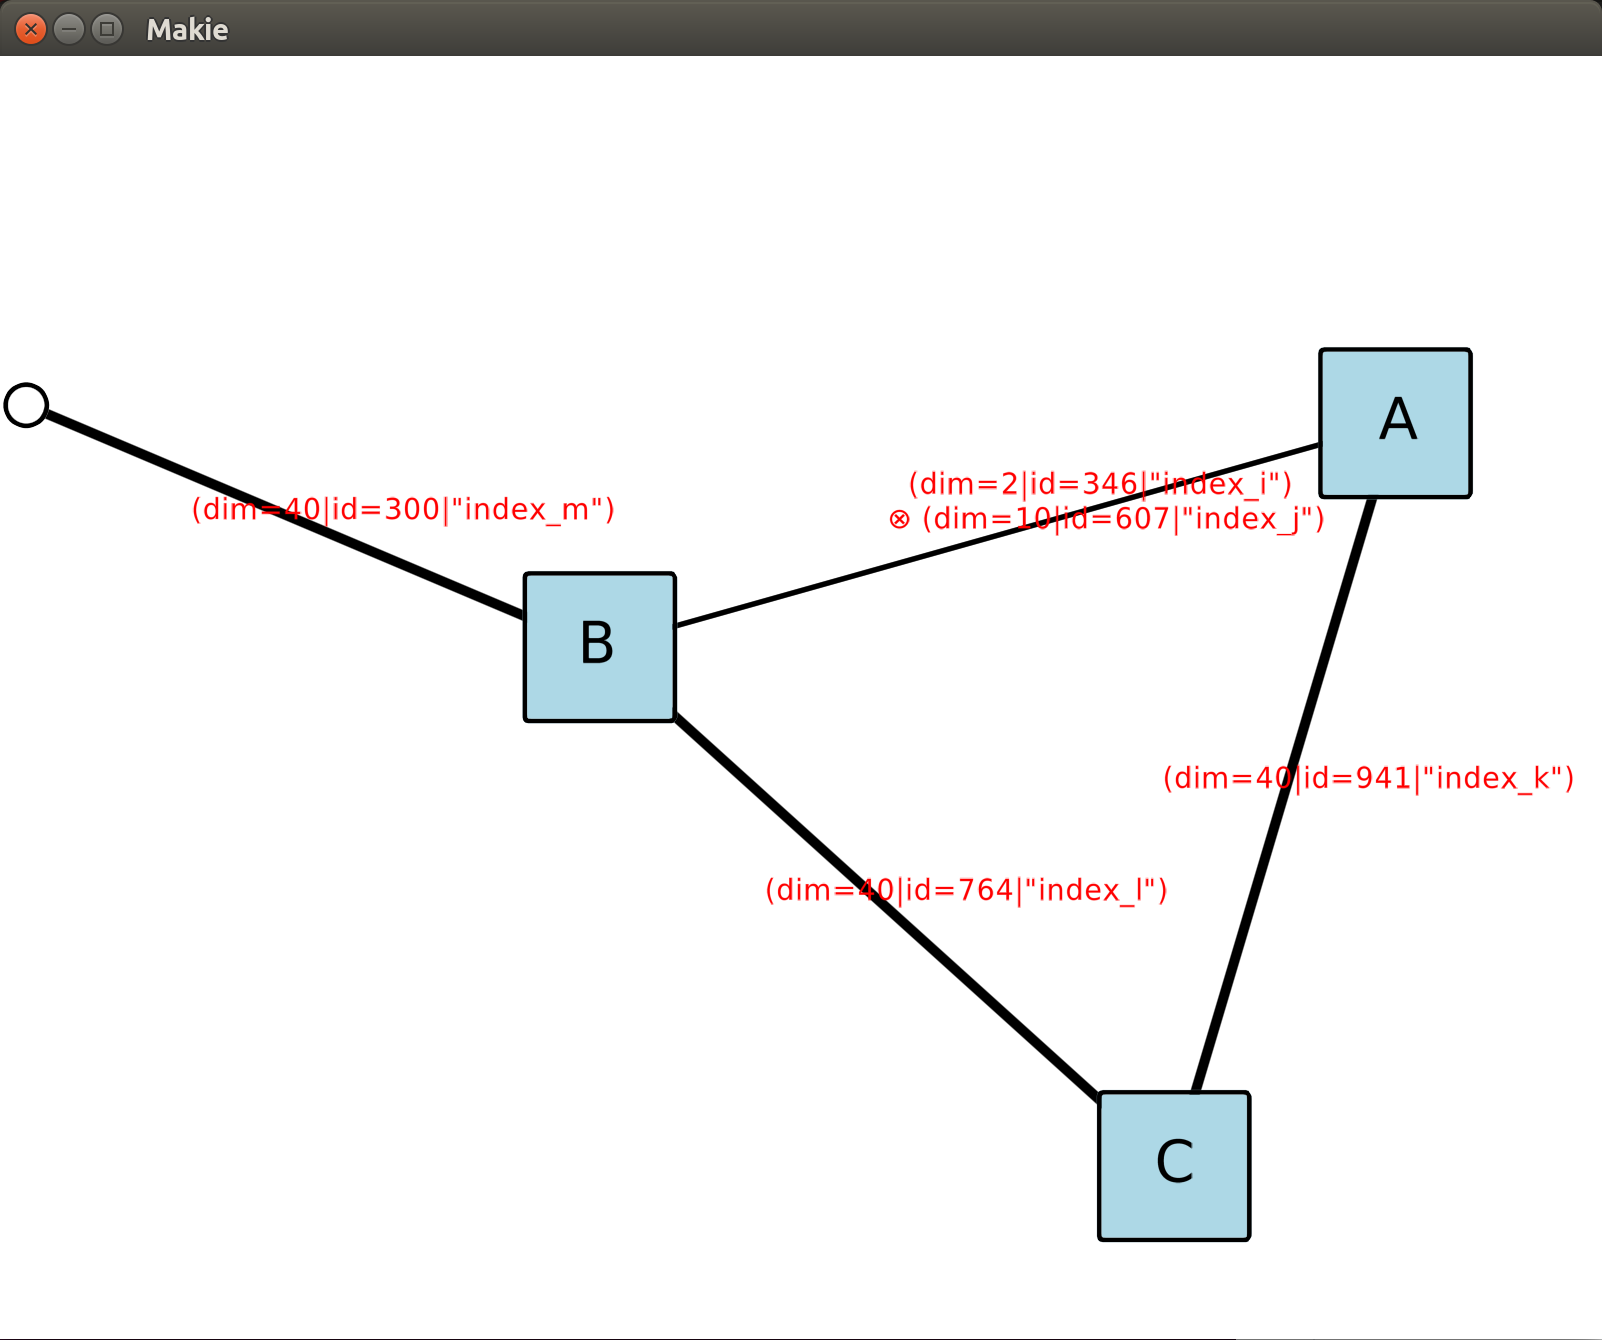
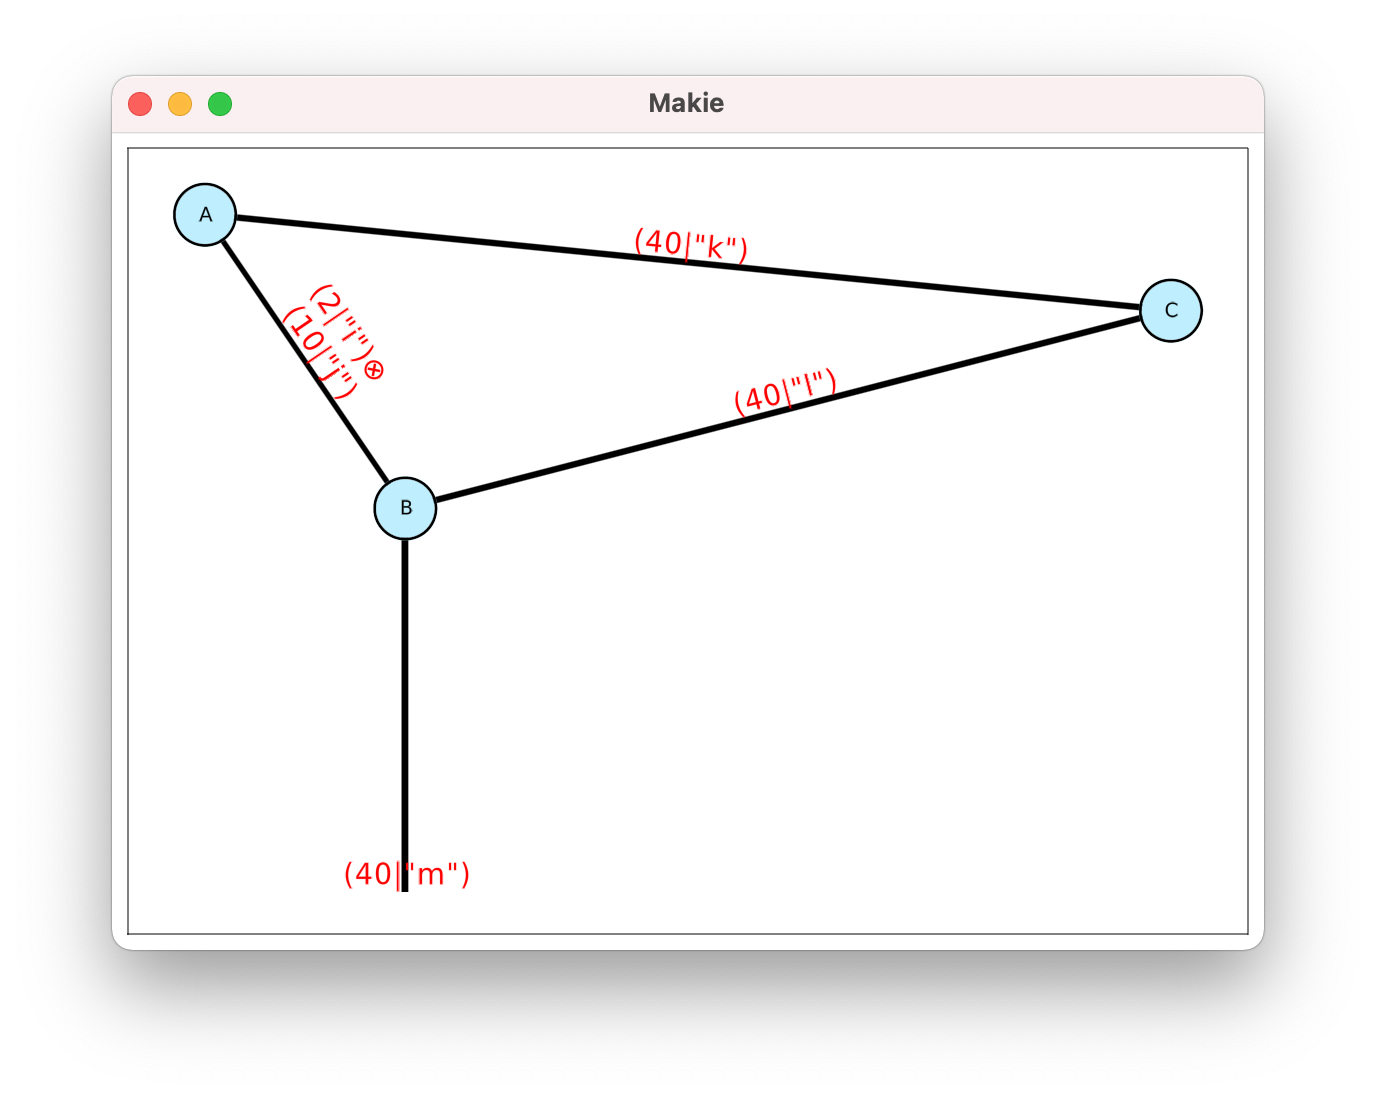
Simplify edge_labels interface. Update README

diff --git a/README.md b/README.md
@@ -5,30 +5,45 @@ This is a package for visualizing tensor networks. The main purpose is to use it
 using ITensors
 using ITensorsVisualization
 
-i = Index(2, "index_i")
-j = Index(10, "index_j")
-k = Index(40, "index_k")
-l = Index(40, "index_l")
-m = Index(40, "index_m")
+i = Index(2, "i")
+j = Index(10, "j")
+k = Index(40, "k")
+l = Index(40, "l")
+m = Index(40, "m")
 A = randomITensor(i, j, k)
 B = randomITensor(i, j, l, m)
 C = randomITensor(k, l)
-# Contract the tensors over the common indices
-# and visualize the results
 ABC = @visualize A * B * C
 ```
-A window like the following should appear:
+This will execute the contraction and output 
+![alt text](assets/ITensorsVisualization_A_B_C_unicode_notags.png)
 
+You can show the visualization with tags with:
+```julia
+ABC = @visualize A * B * C edge_labels=(tags=true,)
+```
+![alt text](assets/ITensorsVisualization_A_B_C_unicode_tags.png)
+
+In order to output a more sophisticated interactive visualization,
+load a Makie backend and specify you want Makie as your backend:
+```julia
+using GLMakie
+
+ITensorsVisualization.set_backend!("Makie")
+
+ABC = @visualize A * B * C edge_labels=(tags=true,);
+```
+A window like the following should appear:
 ![alt text](assets/ITensorsVisualization_A_B_C.png)
 
 The visualization makes an initial guess for the locations of the tensors (using [NetworkLayout.jl](https://github.com/JuliaGraphs/NetworkLayout.jl)), and then allows users to interactively move the tensors to better locations. You can move the tensors and external indices (the square and circle nodes of the network) by left clicking on a node and dragging it to a new location.  You can also right click and drag to translate the entire diagram, and scroll to zoom in and out.
 
-In addition, you can pause the execution between contractions to analyze intermediate results:
+In addition, you can visualize multiple steps of a contraction as follows:
 ```julia
-julia> AB = @visualize A * B; readline(); ABC = @visualize AB * C;
+julia> AB = @visualize fig A * B edge_labels=(tags=true,);
+
+julia> ABC = @visualize! fig[1, 2] AB * C edge_labels=(tags=true,);
+
+julia> fig
 ```
-This will first visualize the contraction `A * B`, wait for the user to respond, and then perform the contraction and continue to visualize and perform contraction `AB * C`. This is helpful for viewing and debugging multistep contractions.
-
-![alt text](assets/ITensorsVisualization_A_B.png)
-![alt text](assets/ITensorsVisualization_AB_C.png)
-
+![alt text](assets/ITensorsVisualization_A_B_C_sequence.png)
